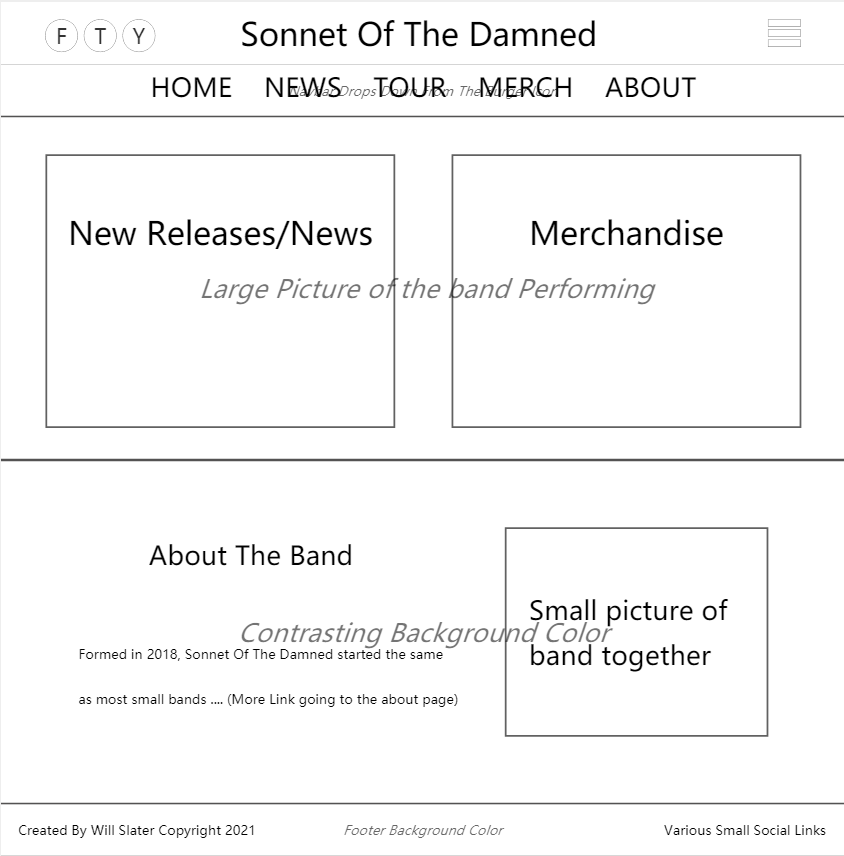
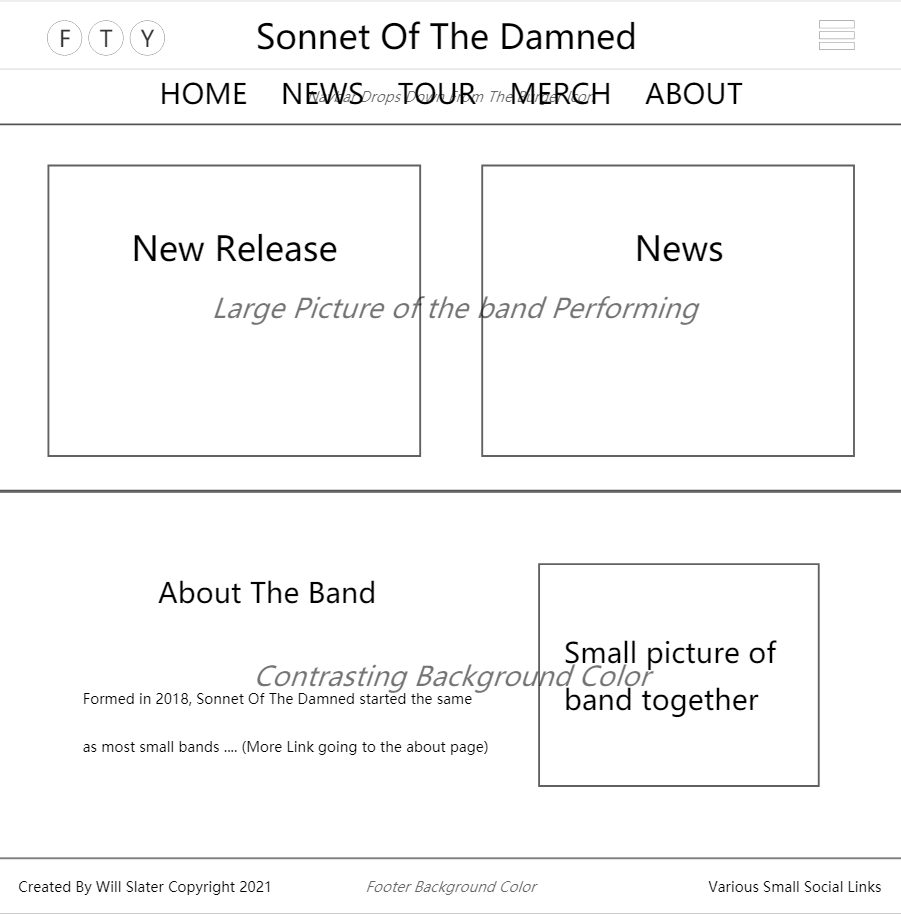
updated readme.md with information on homepage ux

diff --git a/README.md b/README.md
@@ -1,2 +1,95 @@
-# Sonnet-Of-The-Damned-Band-Site
+Sonnet-Of-The-Damned-Band-Site
+
 Milestone project 1: A static webpage for the melodic hardcore band Sonnet Of The Damned. 
+
+The goal of this is to create a usable website for the britisih melodic hardcore band Sonnet of the Damned.
+The project is intended to provide a website that is helpful for both fans of the band in acquiring merchandise and
+information and providing potential fans of the band the ability to grow their love for them.
+
+
+UX
+
+The website is for fans of the band and potential fans and is made to serve two seperate purposes. 
+
+The first purpose is to help fans of the band with acquiring information on the band that helps the band grow, such as
+finding out when they are performing and where and potentially providing the ability to purchase tickets for these shows,
+purchasing merchandise and just finding out news about new releases and information about the band as often fans are
+willing to spend more money if they feel a personal connection to the performers, so providing information on the bands 
+origins and their individual members helps to do this. 
+
+The second purpose is to help grow the bands audience by giving potential fans of the band the information they need to
+learn more about the band and links to the bands music. Although these links aren't necessary for people who are already
+fans, they are critical for newcomers so that they can hear the bands music as easily as possible, potentially become
+fans and join the first group spoken about above, allowing the band to become more financially successful. This is why the
+merchandise and tour pages require use of the navbar where as the newest release, news and about the band section are able
+to be accessed directly from the homepage, optimising the site to provide those who are likely to spend the least time 
+looking around with the information we want to convey to them first. 
+
+The homepage provides short descriptions of news, new releases and about the band so that it encourages the user to click
+further and explore more, as if we gave them everything on the homepage they'd have no reason to go any further. This is
+why each section has been put onto its own seperate page, as although the website could be achieved by having a single
+long homepage with an individual section instead for each piece, it wouldn't encourage the same exploration or allow
+people who already know what they want to get there as easily. It doesn't include tour or merchandise to provide a much
+more succinct homepage and as this is something only really necessary for those who are already fans, people who won't be
+dissuaded by two extra clicks of the hamburger icon and the page name.
+
+The wireframe for the homepage is linked below (The navbar would be minimised by default and is shown as such on all other
+wireframes but has been displayed open on this first wireframe to provide the general idea of its design and how it would
+appear on all pages when opened)
+
+
+As a user type, I want to perform an action, so that I can achieve a goal.
+This section is also where you would share links to any wireframes, mockups, diagrams etc. that you created as part of the design process. These files should themselves either be included as a pdf file in the project itself (in an separate directory), or just hosted elsewhere online and can be in any format that is viewable inside the browser.
+
+Features
+In this section, you should go over the different parts of your project, and describe each in a sentence or so.
+
+Existing Features
+Feature 1 - allows users X to achieve Y, by having them fill out Z
+...
+For some/all of your features, you may choose to reference the specific project files that implement them, although this is entirely optional.
+
+In addition, you may also use this section to discuss plans for additional features to be implemented in the future:
+
+Features Left to Implement
+Another feature idea
+Technologies Used
+In this section, you should mention all of the languages, frameworks, libraries, and any other tools that you have used to construct this project. For each, provide its name, a link to its official site and a short sentence of why it was used.
+
+JQuery
+The project uses JQuery to simplify DOM manipulation.
+Testing
+In this section, you need to convince the assessor that you have conducted enough testing to legitimately believe that the site works well. Essentially, in this part you will want to go over all of your user stories from the UX section and ensure that they all work as intended, with the project providing an easy and straightforward way for the users to achieve their goals.
+
+Whenever it is feasible, prefer to automate your tests, and if you've done so, provide a brief explanation of your approach, link to the test file(s) and explain how to run them.
+
+For any scenarios that have not been automated, test the user stories manually and provide as much detail as is relevant. A particularly useful form for describing your testing process is via scenarios, such as:
+
+Contact form:
+Go to the "Contact Us" page
+Try to submit the empty form and verify that an error message about the required fields appears
+Try to submit the form with an invalid email address and verify that a relevant error message appears
+Try to submit the form with all inputs valid and verify that a success message appears.
+In addition, you should mention in this section how your project looks and works on different browsers and screen sizes.
+
+You should also mention in this section any interesting bugs or problems you discovered during your testing, even if you haven't addressed them yet.
+
+If this section grows too long, you may want to split it off into a separate file and link to it from here.
+
+Deployment
+This section should describe the process you went through to deploy the project to a hosting platform (e.g. GitHub Pages or Heroku).
+
+In particular, you should provide all details of the differences between the deployed version and the development version, if any, including:
+
+Different values for environment variables (Heroku Config Vars)?
+Different configuration files?
+Separate git branch?
+In addition, if it is not obvious, you should also describe how to run your code locally.
+
+Credits
+Content
+The text for section Y was copied from the Wikipedia article Z
+Media
+The photos used in this site were obtained from ...
+Acknowledgements
+I received inspiration for this project from X
